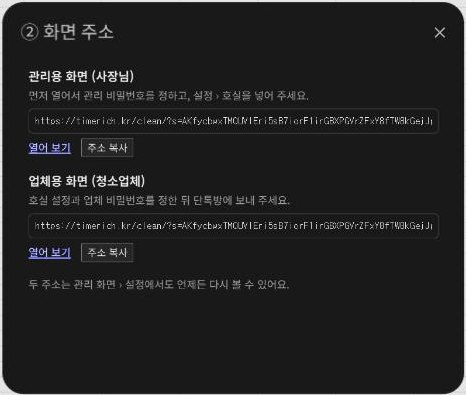
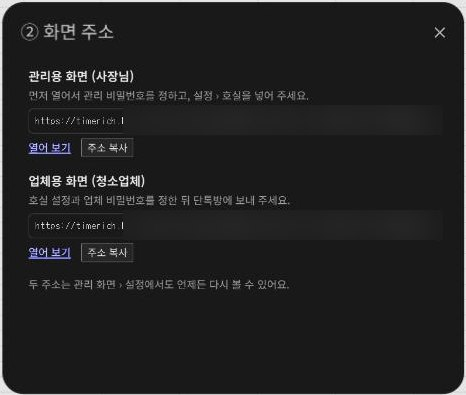
clean/guide: 실제 설치본 화면(호실·캘린더·메일)으로 교체, 시험 주소 가림
Claude-Session: https://claude.ai/code/session_014H2ZGGZ6siFYbtQw8d3tvV

Changed region(s): [[0.2704, 0.2734, 0.9313, 0.3342], [0.2704, 0.5468, 0.9313, 0.5772]]

diff --git a/clean/guide/index.html b/clean/guide/index.html
@@ -21,8 +21,8 @@ footer{color:var(--sub);text-align:center;font-size:.85rem;padding:0 20px 40px}
 <section><h2>4. 라이선스 키 넣기</h2><p>허용 뒤 다시 <b>타임리치 › ① 설치하기</b>를 누르고 받은 키를 붙여 넣으세요. ‘① 설치 완료’가 나오면 끝이에요. 키는 처음 설치한 시트 하나에만 쓸 수 있어요.</p><figure><img src="img/key.jpg" width="228" height="209" alt="라이선스 키 입력" loading="lazy"></figure><figure><img src="img/done.jpg" width="380" height="250" alt="설치 완료" loading="lazy"></figure></section>
 <section><h2>5. 웹 앱 배포 (한 번만)</h2><p>시트 메뉴 <b>확장 프로그램 › Apps Script</b> → 오른쪽 위 <b>[배포] › [새 배포]</b> → 유형 <b>웹 앱</b>, 실행 <b>나</b>, 액세스 권한 <b>모든 사용자</b> → <b>[배포]</b> → 나온 <b>웹 앱 URL(…/exec)</b>을 복사하세요.</p><p class="note">‘모든 사용자’로 해야 청소업체 폰에서 열려요. 화면은 업체 비밀번호로 잠겨 있어요.</p><figure><img src="img/ext.jpg" width="530" height="200" alt="Apps Script 열기" loading="lazy"></figure><figure><img src="img/deploy1.jpg" width="400" height="160" alt="새 배포" loading="lazy"></figure><figure><img src="img/deploy2.jpg" width="590" height="470" alt="웹 앱 설정" loading="lazy"></figure><figure><img src="img/deploy3.jpg" width="590" height="470" alt="배포 완료 주소" loading="lazy"></figure></section>
 <section><h2>6. 메뉴 [타임리치] › ② 화면 주소 만들기</h2><p>복사한 웹 앱 주소를 붙여 넣으면 <b>관리용</b>·<b>업체용</b> 화면 주소가 나와요. 관리용은 사장님 폰 홈 화면에 추가해 두면 편해요.</p><figure><img src="img/links.jpg" width="466" height="395" alt="화면 주소" loading="lazy"></figure></section>
-<section><h2>7. 관리용 화면: 비밀번호 → 호실</h2><p>관리용 주소를 열고 <b>관리 비밀번호</b>를 정하세요. 바로 <b>설정 › 호실</b>이 열려요. 호실 이름·색·문 비밀번호·청소비·수건 규칙·플랫폼 숙소 번호를 넣고 <b>[호실 저장]</b>.</p><p class="note">숙소 번호 찾는 곳 — 아고다: YCS 맨 위 ‘숙소 ID’ / 부킹닷컴: 엑스트라넷 맨 위 숙소 이름 옆 숫자 / 에어비앤비: 숙소 주소의 rooms/ 뒤 숫자. 한 번호에 방이 여러 개면 그 방들에 같은 번호를 넣으세요(그 예약은 ‘할 일’에서 방만 고르면 돼요).</p><figure><img src="img/admin_pw.jpg" width="300" height="260" alt="관리 비밀번호" loading="lazy"></figure><figure><img src="img/rooms.jpg" width="560" height="948" alt="호실 설정" loading="lazy"></figure></section>
+<section><h2>7. 관리용 화면: 비밀번호 → 호실</h2><p>관리용 주소를 열고 <b>관리 비밀번호</b>를 정하세요. 바로 <b>설정 › 호실</b>이 열려요. 호실 이름·색·문 비밀번호·청소비·수건 규칙·플랫폼 숙소 번호를 넣고 <b>[호실 저장]</b>.</p><p class="note">숙소 번호 찾는 곳 — 아고다: YCS 맨 위 ‘숙소 ID’ / 부킹닷컴: 엑스트라넷 맨 위 숙소 이름 옆 숫자 / 에어비앤비: 숙소 주소의 rooms/ 뒤 숫자. 한 번호에 방이 여러 개면 그 방들에 같은 번호를 넣으세요(그 예약은 ‘할 일’에서 방만 고르면 돼요).</p><figure><img src="img/admin_pw.jpg" width="300" height="260" alt="관리 비밀번호" loading="lazy"></figure><figure><img src="img/rooms.jpg" width="480" height="828" alt="호실 설정" loading="lazy"></figure><p>저장하면 <b>캘린더</b>에 호실 칸이 생기고, 예약이 들어오면 청소 날짜·박수·인원이 표시돼요.</p><figure><img src="img/calendar.jpg" width="420" height="797" alt="캘린더" loading="lazy"></figure></section>
 <section><h2>8. 업체 비밀번호 → 단톡방에 업체용 주소</h2><p>설정에서 <b>업체 비밀번호</b>(숫자 4자리 이상)를 정하고, <b>업체용 주소</b>를 청소업체 단톡방에 보내 주세요. 업체는 오늘·내일 청소, 캘린더, 추가 일정을 보고 ‘청소 완료’를 눌러요.</p><figure><img src="img/vendor.jpg" width="420" height="908" alt="업체용 화면" loading="lazy"></figure></section>
-<section><h2>9. 예약 메일 자동 읽기 켜기</h2><p>설정 › <b>예약 메일 자동 읽기</b>를 켜면 아고다·부킹닷컴·에어비앤비 예약·취소 메일을 10분마다 읽어 캘린더에 넣어요. <b>[메일 읽기 점검]</b>으로 최근 4일 메일이 어떻게 읽히는지 먼저 볼 수 있어요.</p><ul><li>플랫폼 알림 메일 언어는 <b>한국어</b>로 해 주세요</li><li>예약 메일이 다른 계정으로 오면 지메일 ‘전달’로 이 계정에 넘겨 주세요</li><li>부킹닷컴 새 예약은 메일에 체크아웃·인원이 없어서 ‘할 일’에 뜨면 채워 주세요</li></ul></section>
+<section><h2>9. 예약 메일 자동 읽기 켜기</h2><p>설정 › <b>예약 메일 자동 읽기</b>를 켜면 아고다·부킹닷컴·에어비앤비 예약·취소 메일을 10분마다 읽어 캘린더에 넣어요. <b>[메일 읽기 점검]</b>으로 최근 4일 메일이 어떻게 읽히는지 먼저 볼 수 있어요(장부에는 안 써요). ‘못 읽음’이면 이유가 같이 나와요 — 예: 설정에 없는 숙소 번호면 호실에 그 번호를 넣어 주세요.</p><ul><li>플랫폼 알림 메일 언어는 <b>한국어</b>로 해 주세요</li><li>예약 메일이 다른 계정으로 오면 지메일 ‘전달’로 이 계정에 넘겨 주세요</li><li>부킹닷컴 새 예약은 메일에 체크아웃·인원이 없어서 ‘할 일’에 뜨면 채워 주세요</li></ul><figure><img src="img/mail.jpg" width="480" height="263" alt="메일 자동 읽기" loading="lazy"></figure></section>
 <section><h2>자주 묻는 것</h2><ul><li><b>업데이트</b>: 새 판이 나오면 3시간 안에 자동으로 바뀌어요. 따로 할 일 없어요</li><li><b>시트에서 직접 고쳐도 되나요?</b> 예약·전달사항은 관리용 화면에서 바꿔 주세요(시트를 손으로 고치면 10분 안에 반영되지만 형식이 틀리면 빠질 수 있어요)</li><li><b>호실 수</b>: 구매한 상품만큼(4·8·12곳) 넣을 수 있어요</li><li><b>문의</b>: 크몽 메시지로 주세요</li></ul></section>
 </main><footer>© TimeRich 타임리치</footer></body></html>
